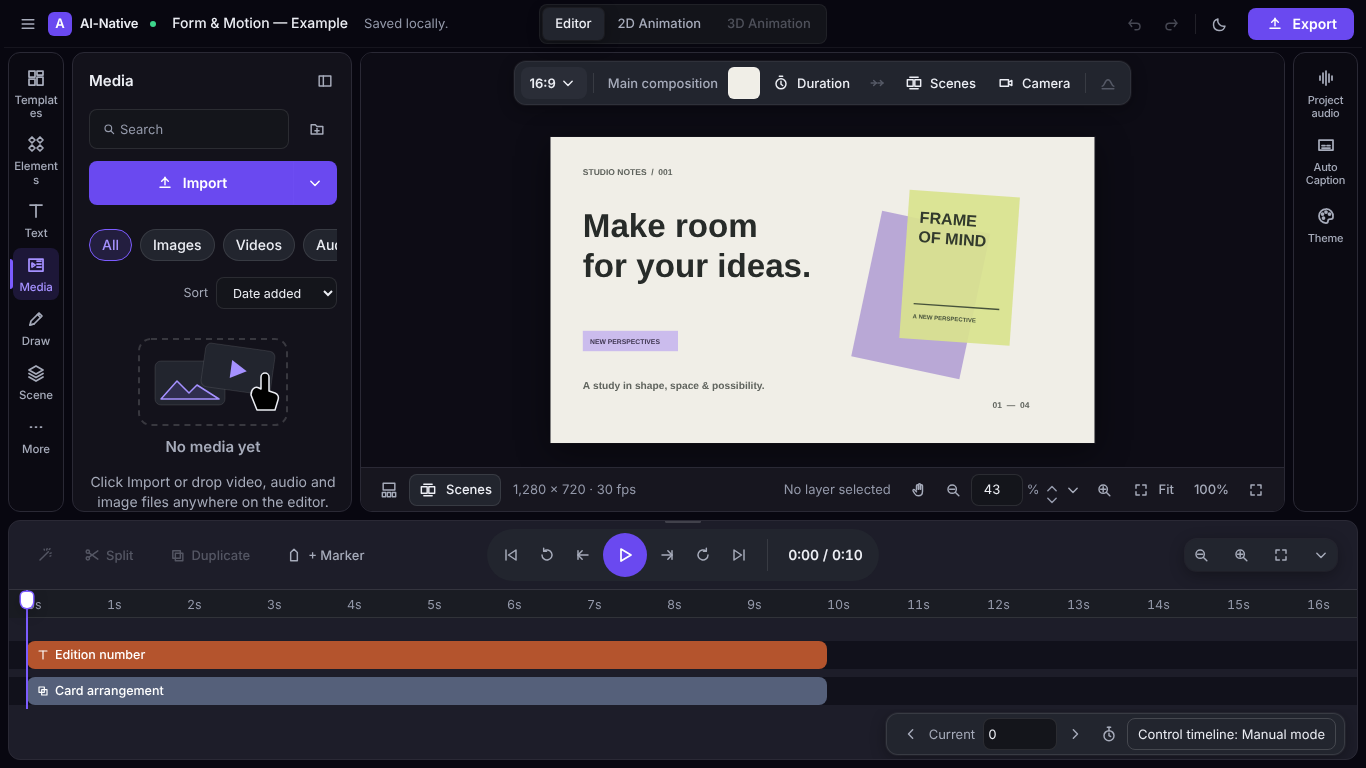
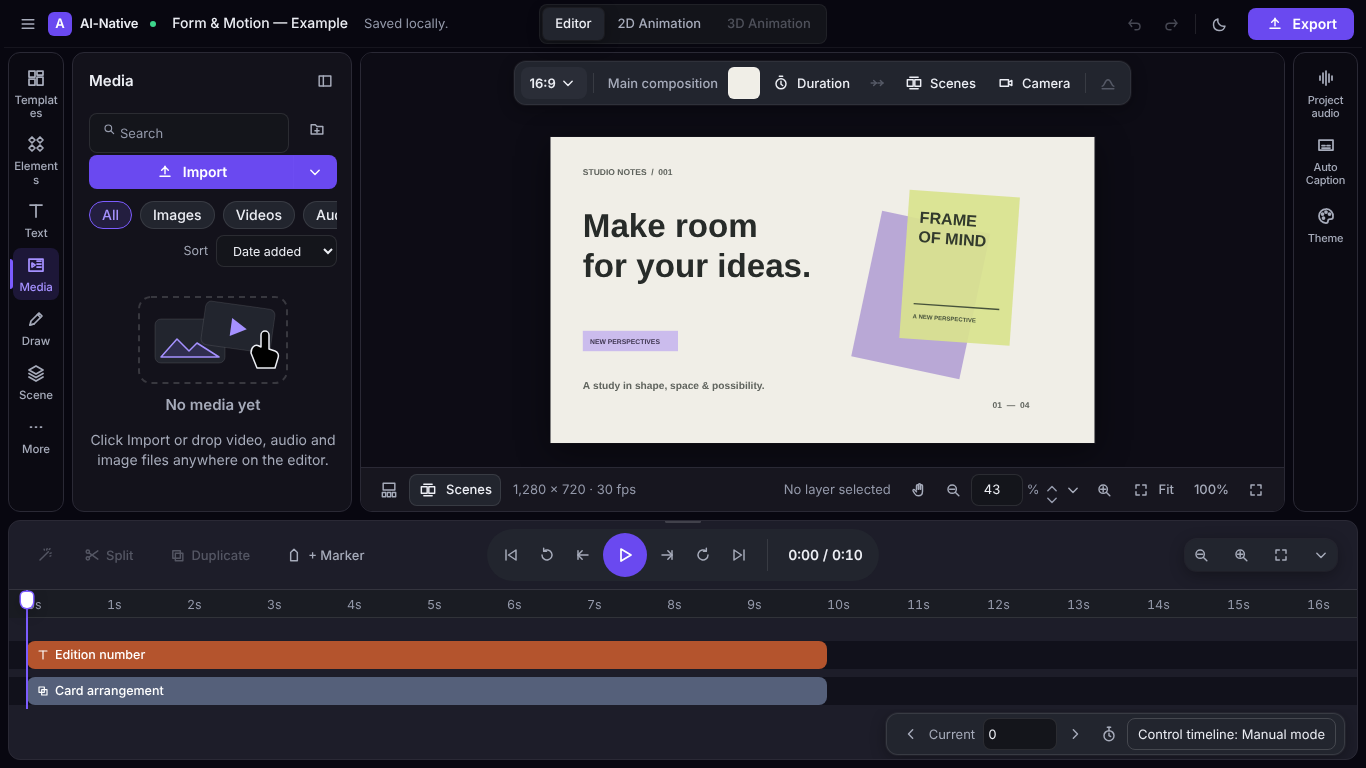
test: 60 percent share at 1366 [FIX4 A3]

diff --git a/e2e/fix3-panels.spec.ts b/e2e/fix3-panels.spec.ts
@@ -50,12 +50,8 @@ test('[FX3-001] Media, AI and My Templates: the one scroller fills the panel to 
       .poll(async () => (await geometry(page)).gap, { message: name })
       .toBeLessThanOrEqual(2);
     const g = await geometry(page);
-    // 60 % at 1920 × 940. At 1366 × 768 the medium layout's left panel is
-    // about 458 px and its fixed header (search, Import, chips) is most of
-    // it: 51 % today, recorded as not meeting the target in reports/FIX3.md.
-    expect(g.share, name).toBeGreaterThanOrEqual(
-      testInfo.project.name === 'laptop-1366' ? 0.5 : 0.6,
-    );
+    // FIX4 A3: 60 % at both sizes (at 1366 × 768 the header is tightened).
+    expect(g.share, name).toBeGreaterThanOrEqual(0.6);
     expect(g.searchVisible, name).toBe(true);
     expect(g.nested, name).toBe(0);
     await page.screenshot({
